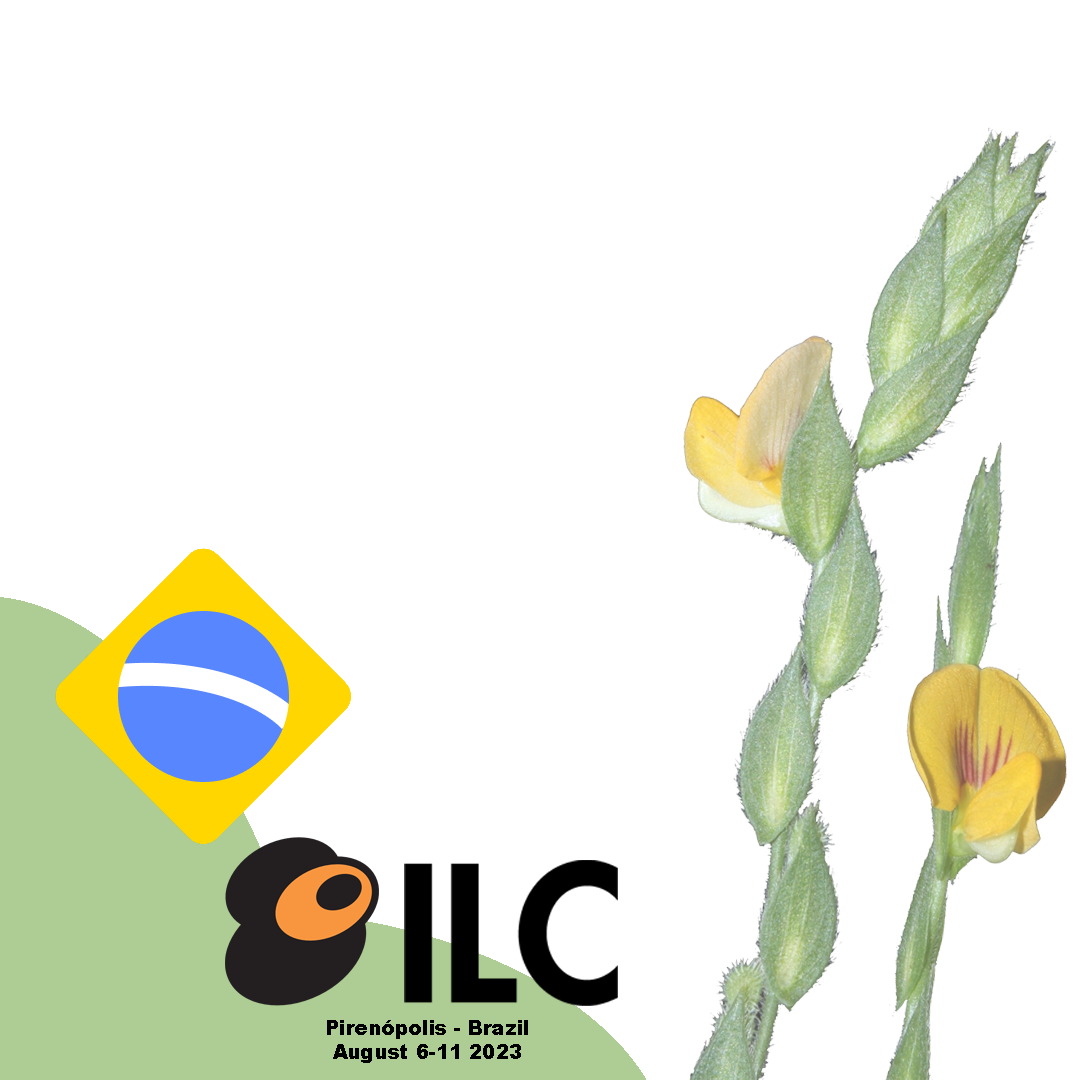
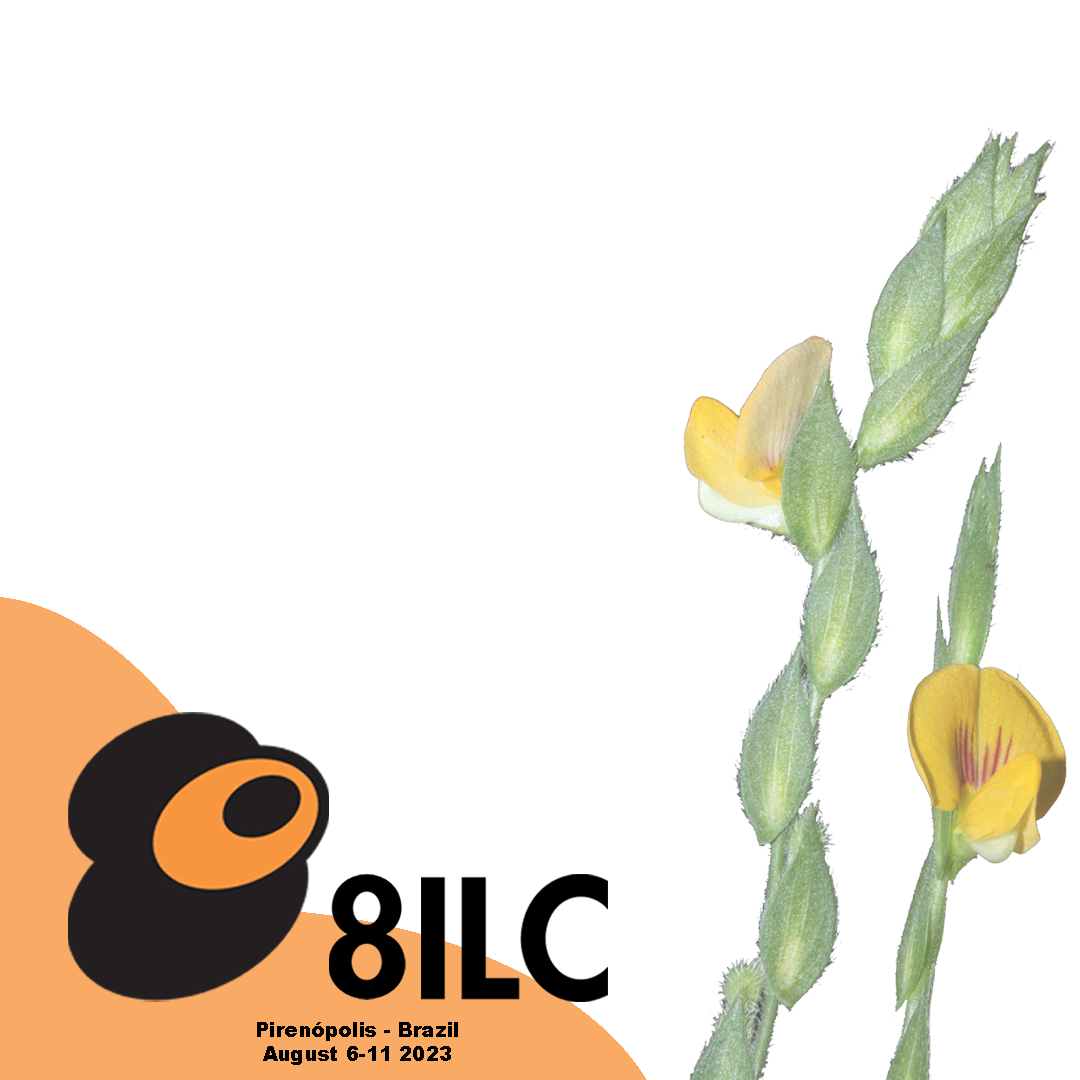
Correction

Changed region(s): [[0.0, 0.4889, 0.6111, 1.0]]

diff --git a/index.html b/index.html
@@ -71,10 +71,12 @@
       }
 
       .navbar {
-        background-color: #107b29;
-        color: white;
+        background-color: #cfcfcf;
+        color: black;
         padding: 0.5rem 0;
+        /*
         font-weight: bold;
+         */
         text-align: left;
       }
 
@@ -93,7 +95,9 @@
 
       .navbar a img.preview {
         height: 2rem;
+         /*
         border: 1px solid #f5c012;
+        */
       }
 
       .navbar .container {
@@ -125,8 +129,8 @@
         margin: 1rem 0;
         border-width: 0;
         border-bottom: 2px solid rgb(9, 99, 37);
-        background-color: #107b29;
-        color: white;
+        background-color: #f89640;
+        color: black;
         cursor: pointer;
       }
 
@@ -143,11 +147,11 @@
         align-items: center;
         margin-bottom: 1rem;
         row-gap: 0.5rem;
-        color: #f5c012;
+        color: #F5C012;
       }
 
       .container footer a {
-        color: #f5c012;
+        color: #F5C012;
         text-decoration: none;
         column-gap: 0.25rem;
       }
@@ -167,7 +171,7 @@
 
       .container smartphone {
         display: block;
-        color: #1da60e;
+        color: #cfcfcf;
         margin: 2rem 0;
       }
 
@@ -179,13 +183,13 @@
         font-size: 1rem;
         border: 1px solid #f5c012;
         background-color: transparent;
-        color: #f5c012;
+        color: #f89640;
         outline: none;
         margin-left: 0.5rem;
       }
 
       .container smartphone b {
-        color: #f5c012;
+        color: #f89640;
       }
 
       .container smartphone .copy {
@@ -197,7 +201,7 @@
       }
 
       .container smartphone a {
-        color: #f5c012;
+        color: #f89640;
         text-decoration: underline;
         text-underline-offset: 0.5rem;
         font-weight: bold;
@@ -234,7 +238,6 @@
     <div class="navbar">
       <div class="container">
         <a href="https://padlet.com/8ilc2023/8ILCparticipants">
-          <img src="img/right-arrow-svgrepo.svg" />
           <img src="img/8ilc_logo.png" class="preview" />
           Go to 8ILC participants panel
         </a>
